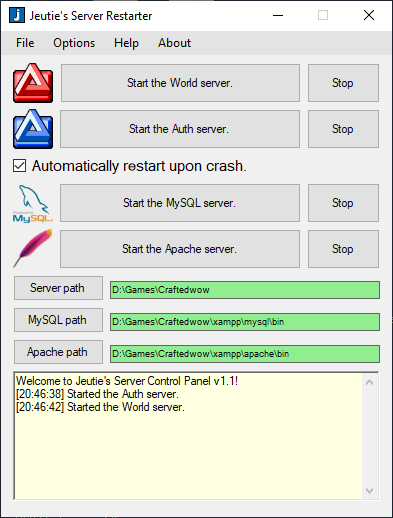
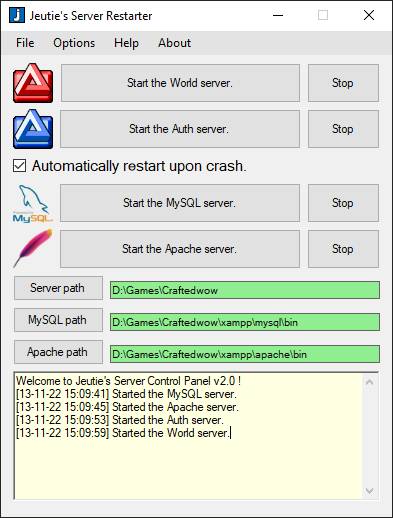
v2.0
Added year-month-day to log

diff --git a/Source/Form1.cs b/Source/Form1.cs
@@ -790,7 +790,7 @@ namespace JeutieControl
       }
       else
       {
-        this.log.AppendText("\n[" + DateTime.Now.ToString("HH:mm:ss") + "] " + text);
+        this.log.AppendText("\n[" + DateTime.Now.ToString("dd-MM-yy HH:mm:ss") + "] " + text);
         this.log.ScrollToCaret();
       }
     }

diff --git a/README.md b/README.md
@@ -3,7 +3,7 @@
 WoW Server Restarter. A simple but usefull tool to automatically restart MySQL , Apache but also World and Auth emulator server processes.
 
 How to run:
-+ 1 - [Download the Jeutie's Repack Control.exe from the Binary folder](https://github.com/CraftedRO/Jeutie-s-Server-Control/raw/main/Binary/JeutiesServerControl.exe).
++ 1 - [Download the Jeutie's Server Control.exe from the Binary folder](https://github.com/CraftedRO/Jeutie-s-Server-Control/raw/main/Binary/JeutiesServerControl.exe).
 + 2 - Run Jeutie's Server Control.exe and point the patches for each server
 
 ![Screenshot](restarter.PNG)
